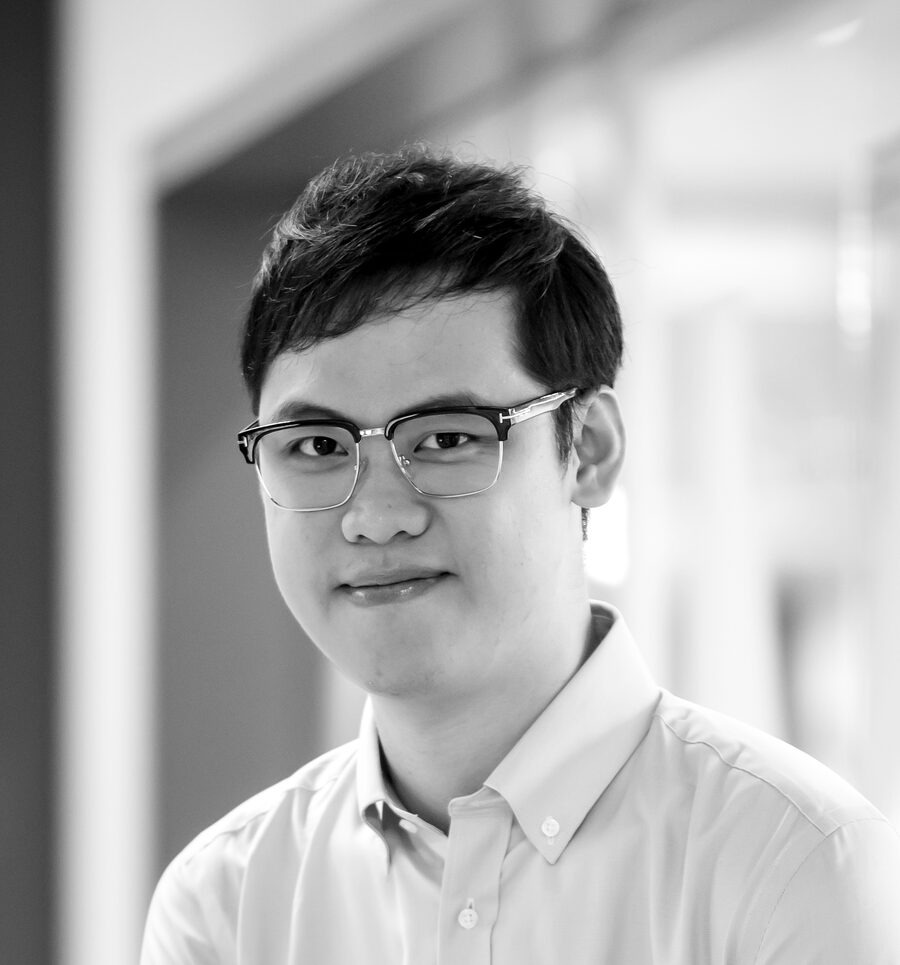
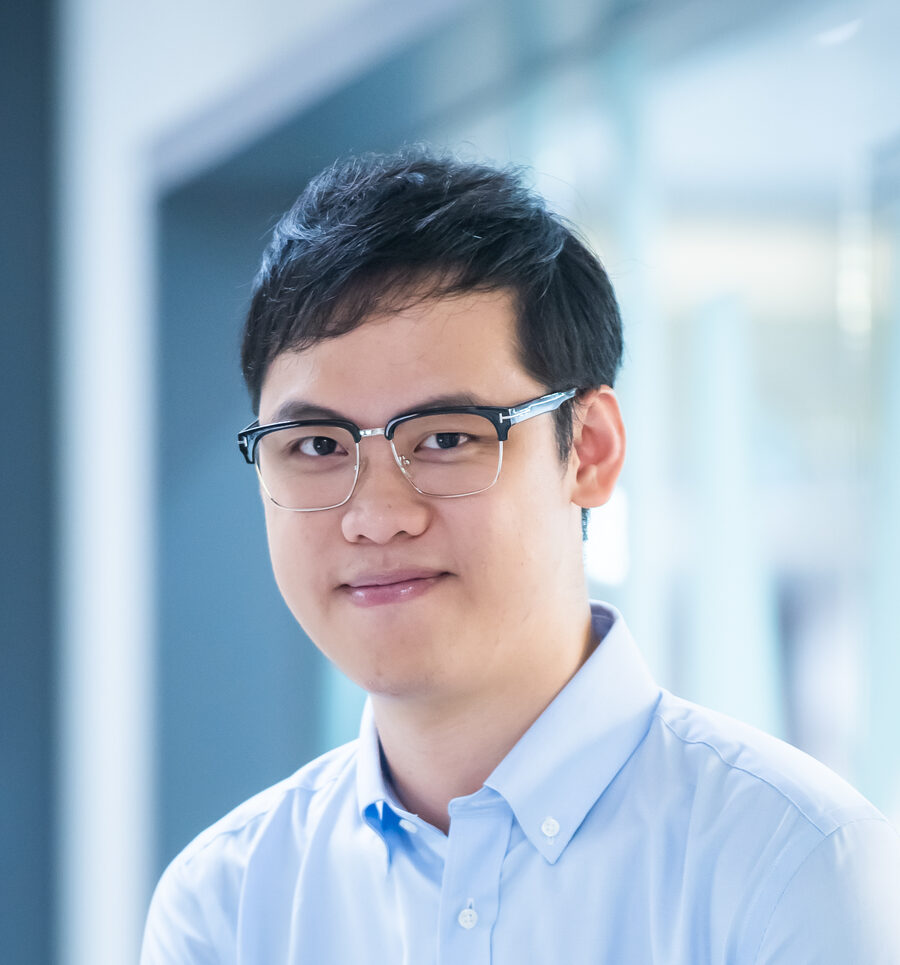
Use full-color portrait in the nature palette design
The grayscale treatment was a leftover from the rejected
monochrome style. Regenerated from the original photo.

diff --git a/CLAUDE.md b/CLAUDE.md
@@ -6,7 +6,7 @@ This file provides guidance to Claude Code (claude.ai/code) when working with co
 
 ISB Lab (Intelligent Systems Biology Lab, 臺北醫學大學) academic website. A static Astro site doubling as a presentation deck: full-viewport scroll-snap sections act as slides. Bilingual (zh default, en). Live at https://yuehhua.github.io/research/
 
-**This directory is not a git repository.** Deployment is manual (see below); do not `git init` or push from here unless asked.
+Source repo: **github.com/yuehhua/research** (push to `main` → GitHub Actions builds and publishes `dist/` to the `research/` directory of the `yuehhua.github.io` repo; requires the `DEPLOY_TOKEN` secret). Do not commit directly to the blog repo.
 
 ## Commands
 
@@ -31,10 +31,10 @@ node scripts/measure-slides.mjs  # per-element height breakdown for tall slides 
 
 ### Hard design constraints
 
-- **Pure black & white** (`--paper`/`--ink`/grays in global.css tokens). No accent color, anywhere. Hover states invert or underline; they never change hue.
+- **Sky-blue × leaf-green palette** (tokens in global.css: `--sky-deep` #0B57A4 headings/footer, `--sky` #1971C2 buttons/links, `--sky-pale`/`--sky-wash` tints, `--leaf` #40A02B live/green accents, `--ink` #16283C body text). User explicitly rejected the earlier pure black-&-white look — don't revert to monochrome. Nature elements: hero sky gradient + branch line-art SVG, teaching slide leaf wash, full-color portrait (no grayscale filter).
 - **Desktop slides must fit one screen** (1920×1080 is the QA gate for the presentation use-case). `qa-geometry.mjs` enforces this; if a slide grows past the viewport, tighten density (paddings, `--section-pad`, row spacing) rather than cropping content. Tablet/mobile overflow is accepted by design.
 - **Highlights ordered first**: the projects array order in content.ts is deliberate (Virtual Embryo → GeometricFlux.jl → RAFAEL → CDGRNs.jl).
-- The portrait (`src/assets/portrait.jpg`) is pre-grayscaled; keep the `filter: grayscale()` treatment.
+- The portrait (`src/assets/portrait.jpg`) is in color; do not re-apply grayscale.
 
 ### Bugs already fixed — don't reintroduce
 
@@ -45,16 +45,9 @@ node scripts/measure-slides.mjs  # per-element height breakdown for tall slides 
 
 ## Deployment
 
-Manual, to the user's blog repo (yuehhua.github.io, Hexo — don't touch its other files):
+Automatic via GitHub Actions (`.github/workflows/deploy.yml`): push to `main` in `yuehhua/research` → build → publish `dist/` to `yuehhua.github.io` repo's `research/` directory (peaceiris/actions-gh-pages, `DEPLOY_TOKEN` secret). GitHub Pages serves it within ~1–2 min. Check runs with `gh run list --repo yuehhua/research`.
 
-```bash
-npm run build
-git clone --depth 3 https://github.com/yuehhua/yuehhua.github.io.git /tmp/blog-deploy
-rsync -a --delete dist/ /tmp/blog-deploy/research/
-cd /tmp/blog-deploy && git add research && git commit && git push
-```
-
-GitHub Pages serves it within ~1 min. A GitHub Actions workflow for this is a known TODO (recorded in plan.md).
+⚠ The blog repo is Hexo-deployed by the user. If they run `hexo deploy`, the `research/` directory may be wiped (Hexo cleans non-`public/` files) — the fix is `keep_files: research` in the blog's `_config.yml` deploy section, or re-run this repo's workflow (`gh workflow run deploy.yml --repo yuehhua/research`).
 
 ## Reference
 
